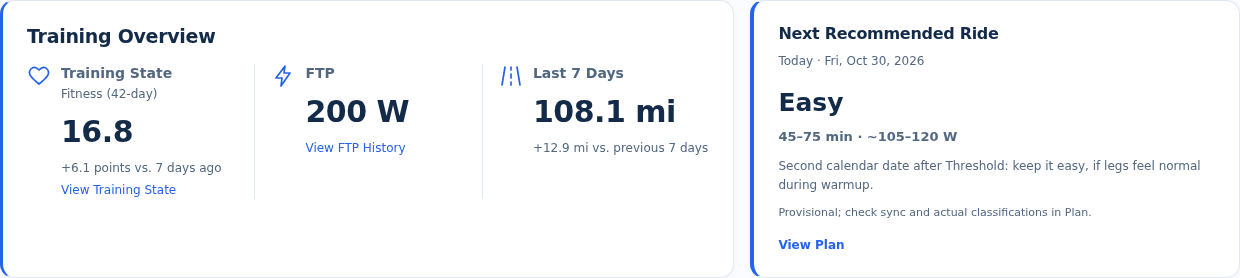
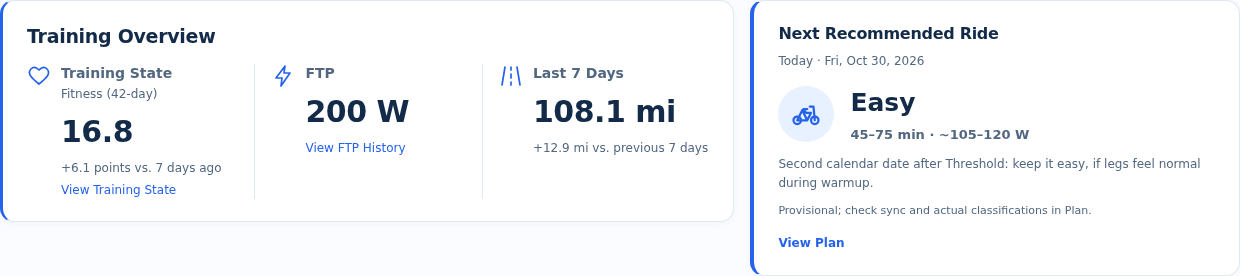
HOME-UI-04: Compact the Home recommendation

diff --git a/rideworks/static/style.css b/rideworks/static/style.css
@@ -644,16 +644,23 @@ pre { overflow-x: auto; font-size: 13px; background: var(--background); padding:
 .home-redesign .home-heading { align-items: end; margin-bottom: 16px; gap: 8px 20px; }
 .home-redesign .home-heading p { font-size: 12px; }
 .home-redesign .home-sync { max-width: 50%; text-align: right; }
-.home-redesign .home-lead { display: grid; grid-template-columns: minmax(0, 1.5fr) minmax(0, 1fr); gap: 16px; align-items: stretch; margin-bottom: 16px; }
+.home-redesign .home-lead { display: grid; grid-template-columns: minmax(0, 1.5fr) minmax(0, 1fr); gap: 16px; align-items: start; margin-bottom: 16px; }
 .home-redesign .next-recommended { margin: 0; }
 .home-redesign .next-recommended h2 { font-size: 16px; }
-.home-redesign .recommended-type { font-size: 25px; margin: 8px 0 4px; }
-.home-redesign .recommended-target { font-size: 13px; font-weight: 650; }
+.home-redesign .home-recommendation-highlight { display: flex; align-items: center; gap: 16px; }
+.home-redesign .home-recommendation-highlight > div { min-width: 0; }
+.home-redesign .home-recommendation-icon { display: grid; place-items: center; flex: 0 0 56px; width: 56px; height: 56px; border-radius: 50%; background: #e8f1ff; color: var(--blue); }
+.home-redesign .home-recommendation-icon svg { width: 30px; height: 30px; fill: none; stroke: currentColor; stroke-width: 1.8; stroke-linecap: round; stroke-linejoin: round; }
+.home-redesign .recommended-type { font-size: 25px; margin: 0 0 4px; }
+.home-redesign .recommended-target { font-size: 13px; font-weight: 650; margin: 0; }
 .home-redesign .recommended-reason { font-size: 12px; margin: 10px 0; }
 .home-redesign .plan-caveat { font-size: 11px; margin: 8px 0; }
 .home-redesign .plan-open { display: inline-block; font-size: 12px; font-weight: 650; margin-top: 6px; }
 .home-redesign .next-recommended .plan-completed { padding-top: 10px; margin-top: 12px; box-shadow: none; border-radius: 0; }
 .home-redesign .plan-completed :is(h2, h3) { font-size: 13px; }
+.home-redesign .plan-completed article { display: flex; flex-wrap: wrap; align-items: baseline; gap: 4px 12px; margin-top: 6px; }
+.home-redesign .plan-completed article :is(h3, p) { margin: 0; }
+.home-redesign .plan-completed article a { font-size: 12px; }
 .home-redesign .home-summary > h2 { margin: 0 0 14px; }
 .home-redesign .home-overview-grid { display: grid; grid-template-columns: repeat(3, minmax(0, 1fr)); }
 .home-redesign .home-overview-metric { display: grid; grid-template-columns: 24px minmax(0, 1fr); gap: 10px; align-content: start; min-width: 0; padding: 0 16px; }

diff --git a/tools/verify_home_ui04.js b/tools/verify_home_ui04.js
@@ -55,6 +55,29 @@ async page => {
     });
     check(lines === 1, `${selector}: long value wraps at 320px`);
   }
+  await page.goto('http://127.0.0.1:18892/');
+  const completedBefore = await page.locator('.next-recommended').textContent();
+  const completedLinks = await page.locator('.plan-completed article a').evaluateAll(nodes => nodes.map(n => n.getAttribute('href')));
+  check(completedLinks.length > 0, 'Completed-ride fixture is missing');
+  await page.goto('http://127.0.0.1:18891/');
+  const compact = text => text.replace(/\s+/g, ' ').trim();
+  check(compact(await page.locator('.next-recommended').textContent()) === compact(completedBefore), 'Completed recommendation content changed');
+  check(JSON.stringify(await page.locator('.plan-completed article a').evaluateAll(nodes => nodes.map(n => n.getAttribute('href')))) === JSON.stringify(completedLinks), 'Completed ride links changed');
+  for (const width of [1440, 390, 320]) {
+    await page.setViewportSize({width, height:900});
+    await page.reload();
+    const layout = await page.evaluate(() => {
+      const box = s => document.querySelector(s).getBoundingClientRect();
+      const summary = box('.home-summary'), recommendation = box('.next-recommended');
+      return {pageWidth:document.documentElement.clientWidth, pageScroll:document.documentElement.scrollWidth,
+        summary:{height:summary.height, bottom:summary.bottom}, recommendation:{height:recommendation.height, top:recommendation.top}};
+    });
+    check(layout.pageScroll <= layout.pageWidth + 1, `${width}: completed ride overflows`);
+    check(width > 1100 ? layout.summary.height < layout.recommendation.height : layout.recommendation.top >= layout.summary.bottom - 1,
+          `${width}: completed ride stretches or overlaps the overview`);
+    check(await page.locator('.home-recommendation-icon svg').count() === 1 && await page.locator('.plan-completed article a').count() === completedLinks.length,
+          `${width}: recommendation icon or completed ride link missing`);
+  }
   check(errors.length === 0, `Browser errors: ${errors.join('; ')}`);
   return `${checks} synthetic HOME-UI-04 browser checks passed`;
 }

diff --git a/rideworks/planning_page.py b/rideworks/planning_page.py
@@ -19,9 +19,13 @@ def day_label(day, today):
     return relative+' · '+date.fromisoformat(day).strftime('%a, %b %d, %Y')
 
 
-def ride_content(rec,*,reason=True):
+def ride_content(rec,*,reason=True,home_visual=False):
     explanation=f'<p class="recommended-reason">{escape(rec["reason"])}</p>' if reason else ''
-    return f'<h3 class="recommended-type">{escape(rec["category"])}</h3><p class="recommended-target">{escape(rec["duration"])} · {escape(rec["power"])}</p>{explanation}'
+    details=f'<h3 class="recommended-type">{escape(rec["category"])}</h3><p class="recommended-target">{escape(rec["duration"])} · {escape(rec["power"])}</p>'
+    if home_visual:
+        bike='<svg viewBox="0 0 24 24" aria-hidden="true"><circle cx="5" cy="17" r="3"/><circle cx="19" cy="17" r="3"/><path d="m5 17 4-8 4 8H5m8 0 3-6h-4l-2-3h3m2-2h3l1 11"/></svg>'
+        details=f'<div class="home-recommendation-highlight"><span class="home-recommendation-icon">{bike}</span><div>{details}</div></div>'
+    return details+explanation
 
 
 def completed_card(data,*,compact=False):
@@ -34,7 +38,7 @@ def completed_card(data,*,compact=False):
     return f'<section class="panel plan-completed"><h2>{heading} · <time datetime="{data["today"]}">{date.fromisoformat(data["today"]).strftime("%a, %b %d")}</time></h2>{"".join(rows)}</section>'
 
 
-def today_card(data,nonce=None,*,compact=False,label='Next Recommended Ride',identifier='next-recommended',show_status=True,include_completed=True):
+def today_card(data,nonce=None,*,compact=False,label='Next Recommended Ride',identifier='next-recommended',show_status=True,include_completed=True,home_visual=False):
     """The shared primary recommendation is future-dated once today is ridden."""
     rec=data['next_ride'];zone=data['timezone']
     controls=f'<a class="plan-open" href="/plan?{urlencode({"plan_tz":zone})}#rotation-heading">View Plan</a>'
@@ -49,7 +53,7 @@ def today_card(data,nonce=None,*,compact=False,label='Next Recommended Ride',ide
     actual=completed_card(data,compact=True) if compact and label=='Next Recommended Ride' and include_completed else ''
     # calendar-day, rather than recommendation-day, drives midnight reload.
     number=f'<span class="plan-number">Hard day #{rec["hard_number"]}</span>' if rec['hard_number'] else ''
-    return f'<section class="panel next-recommended" data-recommended-day="{data["today"]}" data-next-day="{rec["day"]}" aria-labelledby="{identifier}-heading"><h2 id="{identifier}-heading">{escape(label)}</h2><p class="next-ride-date"><time datetime="{rec["day"]}">{day_label(rec["day"],data["today"])}</time>{number}</p>{ride_content(rec)}{status}{controls}{actual}</section>'
+    return f'<section class="panel next-recommended" data-recommended-day="{data["today"]}" data-next-day="{rec["day"]}" aria-labelledby="{identifier}-heading"><h2 id="{identifier}-heading">{escape(label)}</h2><p class="next-ride-date"><time datetime="{rec["day"]}">{day_label(rec["day"],data["today"])}</time>{number}</p>{ride_content(rec,home_visual=home_visual)}{status}{controls}{actual}</section>'
 
 
 def correction_form(ride,nonce,zone,*,back='plan'):

diff --git a/rideworks/home.py b/rideworks/home.py
@@ -311,7 +311,7 @@ def _home_page(store, query='', *, cache_writes):
     from .planning import plan
     from .planning_page import today_card
     plan_data = plan(store,zone.key,as_of=datetime.fromisoformat(data['as_of']),cache_writes=cache_writes)
-    advisor = today_card(plan_data,compact=True)
+    advisor = today_card(plan_data,compact=True,home_visual=True)
     from .strava_effort import chip, for_store as relative_effort_ratings
     ratings = relative_effort_ratings(store) if data['recent'] else {}
     rows = []

diff --git a/reports/HOME-UI-04/implementation.md b/reports/HOME-UI-04/implementation.md
@@ -5,21 +5,21 @@
 - The Home overview and six-month Fitness chart share one Training State result, evaluated at the dashboard's as-of instant and timezone. Fitness and its seven-day point change are the existing daily values; missing or short history is labeled, and a stale value includes its date. Early history remains provisional.
 - The FTP value is the existing Plan result's recorded date-effective FTP, resolved using the accepted athlete calendar. No estimate or comparison against a guessed baseline is displayed. The FTP history link remains available when FTP is unknown.
 - Last-seven-day mileage and its signed difference use the dashboard's existing calendar periods and distance rules. Missing totals make the comparison unavailable; partial missing distance is disclosed. A supported zero remains zero.
-- The existing Next Recommended Ride, lower charts, activity list, mileage cards and diagnostics retain their existing sources and behavior. No calculation, persistence, synchronization or schema changes were made.
+- The existing Next Recommended Ride, lower charts, activity list, mileage cards and diagnostics retain their existing sources and behavior. Home presents the recommendation with a cycling icon and a compact completed-ride row; its date, category, target, reason, provisional warning, Plan link and completed-ride links remain available. The overview keeps its natural height when the recommendation contains additional details. No calculation, persistence, synchronization or schema changes were made.
 
-Implementation: `rideworks/home.py`, `rideworks/training_state_page.py`, scoped `rideworks/static/style.css`, focused tests and `tools/verify_home_ui04.js`.
+Implementation: `rideworks/home.py`, `rideworks/planning_page.py`, `rideworks/training_state_page.py`, scoped `rideworks/static/style.css`, focused tests and `tools/verify_home_ui04.js`.
 
 ## Verification
 
 - `.venv/bin/python -m unittest discover -s tests`: 548 passed, including Plan, FTP, Training State, Home, mileage and Performance regressions.
 - `.venv/bin/python -m unittest discover -s tests -p 'test_home_training_overview.py' -v`: 4 passed, covering modeled Fitness and change, stale and early history, FTP date boundaries and missing history, and mileage boundaries and missing values.
-- `npx --yes --package @playwright/cli playwright-cli -s=home-ui-04 run-code --filename tools/verify_home_ui04.js`: 55 checks passed at 1440, 1024, 768, 390 and 320 CSS pixels, with an empty synthetic Store for missing values. Checked card geometry, horizontal overflow, long and unavailable values at 320px, links and keyboard focus, chart/summary parity, mileage parity, recommendation and lower-card text preservation, and browser errors.
+- `npx --yes --package @playwright/cli playwright-cli -s=home-ui-04 run-code --filename tools/verify_home_ui04.js`: 67 checks passed at 1440, 1024, 768, 390 and 320 CSS pixels, with an empty synthetic Store for missing values. Checked card geometry, horizontal overflow, long and unavailable values at 320px, links and keyboard focus, chart/summary parity, mileage parity, recommendation and lower-card text preservation, completed-ride details and links, and browser errors.
 
-Browser checks used disposable Stores. Create one with `tools/preview_relative_effort.py`, serve the updated checkout on loopback port 18888, serve a pre-change `rideworks` tree and a copy of that Store on port 18890, and serve a new empty Store on port 18889. The screenshot fixtures contain only generated synthetic data:
+Browser checks used disposable Stores. Create one with `tools/preview_relative_effort.py`, serve the updated checkout on loopback port 18888, serve a pre-change `rideworks` tree and a copy of that Store on port 18890, and serve a new empty Store on port 18889. For the completed-ride case, add a synthetic same-day API observation to a copy of the fixture and serve it on port 18891, with its baseline copy on 18892. The screenshot fixtures contain only generated synthetic data:
 
 | View | Before | After |
 | --- | --- | --- |
 | Desktop | [Before](before-desktop.png) | [After](after-desktop.png) |
 | Mobile | [Before](before-mobile.png) | [After](after-mobile.png) |
 
-The [320-pixel card](after-320.png) was also inspected for wrapping. The top-row proportions, metric hierarchy, spacing and typography were compared with the Owner's privately supplied mockup. Fitness and mileage comparisons use neutral, accurately labeled application values; the existing dynamic recommendation and its controls remain intact. The private mockup is not included in this report. Owner acceptance of the running UI follows Analyst review.
+The [320-pixel card](after-320.png) was also inspected for wrapping. The [completed-ride view](after-completed-desktop.png) shows the overview at its natural height alongside the longer recommendation. The top-row proportions, metric hierarchy, spacing and typography were compared with the Owner's privately supplied mockup. Fitness and mileage comparisons use neutral, accurately labeled application values; the existing dynamic recommendation and its controls remain intact. The private mockup is not included in this report. Owner acceptance of the running UI follows Analyst review.

diff --git a/STATUS.md b/STATUS.md
@@ -5,6 +5,6 @@
 **State:** `ready_for_review` — implementation, responsive verification and private-mockup comparison complete. [Analyst JIT](docs/tasks/HOME-UI-04.md).
 **Branch:** `task/home-ui-04-training-overview` from refreshed `main`.
 **PR:** [HOME-UI-04 draft PR #55](https://github.com/k14krug/rideworks/pull/55).
-**Verification:** 548 Python tests and 55 synthetic browser checks passed; desktop and mobile layouts compared with the private mockup. [Implementation report](reports/HOME-UI-04/implementation.md).
+**Verification:** 548 Python tests and 67 synthetic browser checks passed; layout compared with the private mockup and completed-ride details checked at desktop and mobile widths. [Implementation report](reports/HOME-UI-04/implementation.md).
 **Next action:** Analyst technical review, then Owner visual acceptance of the running UI.
 **Deployment:** Not authorized.
